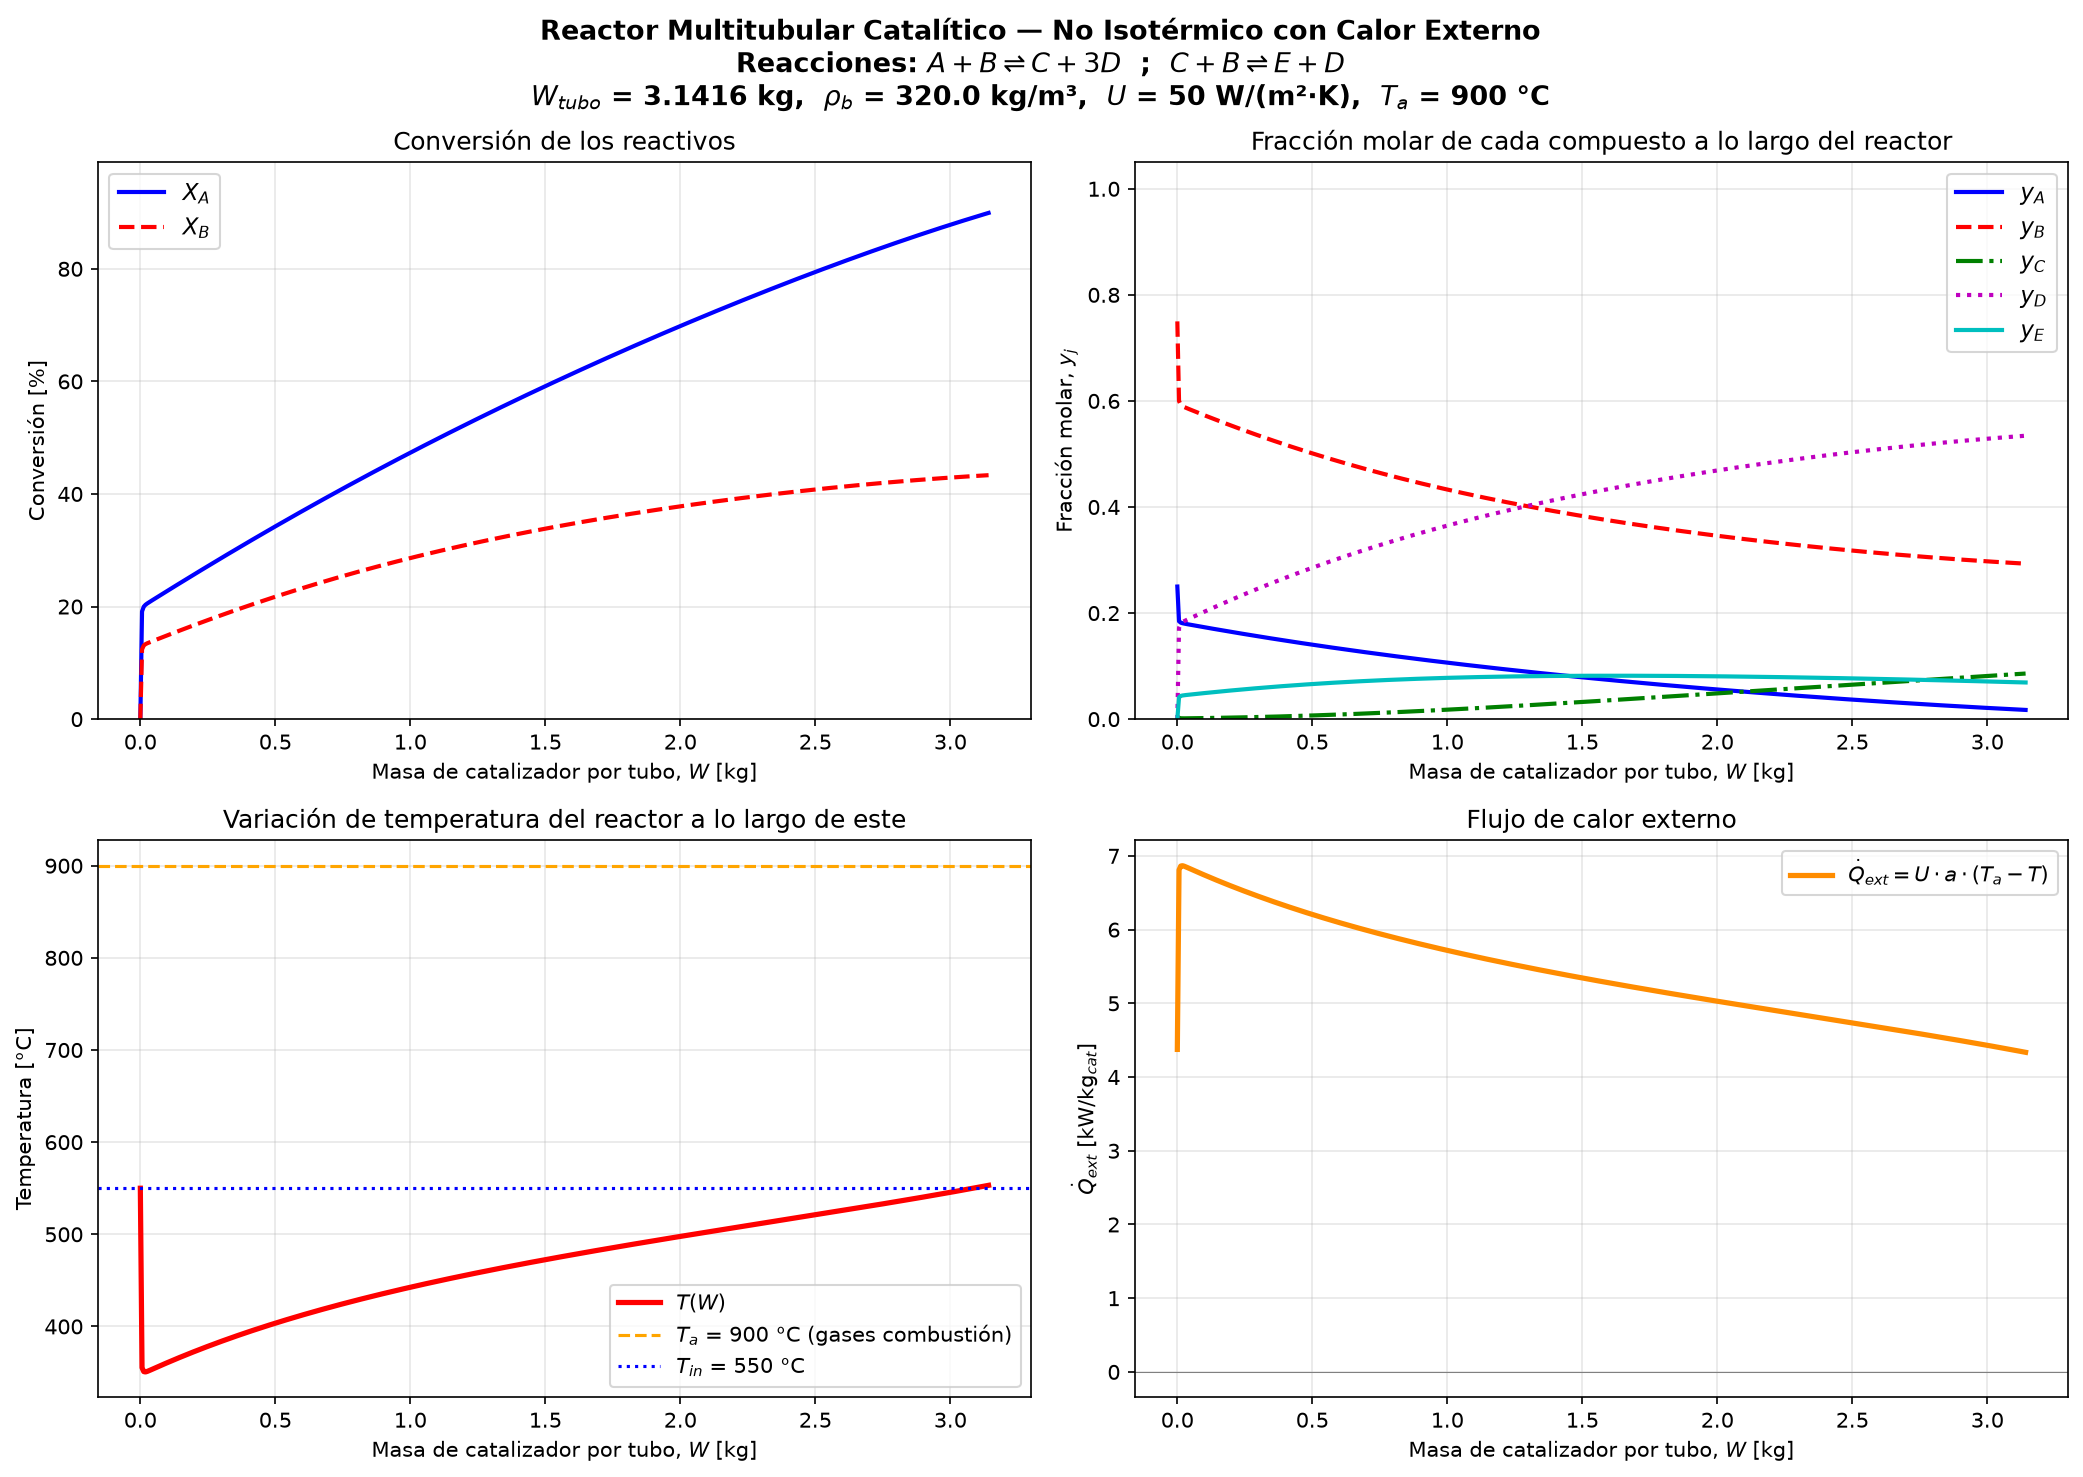
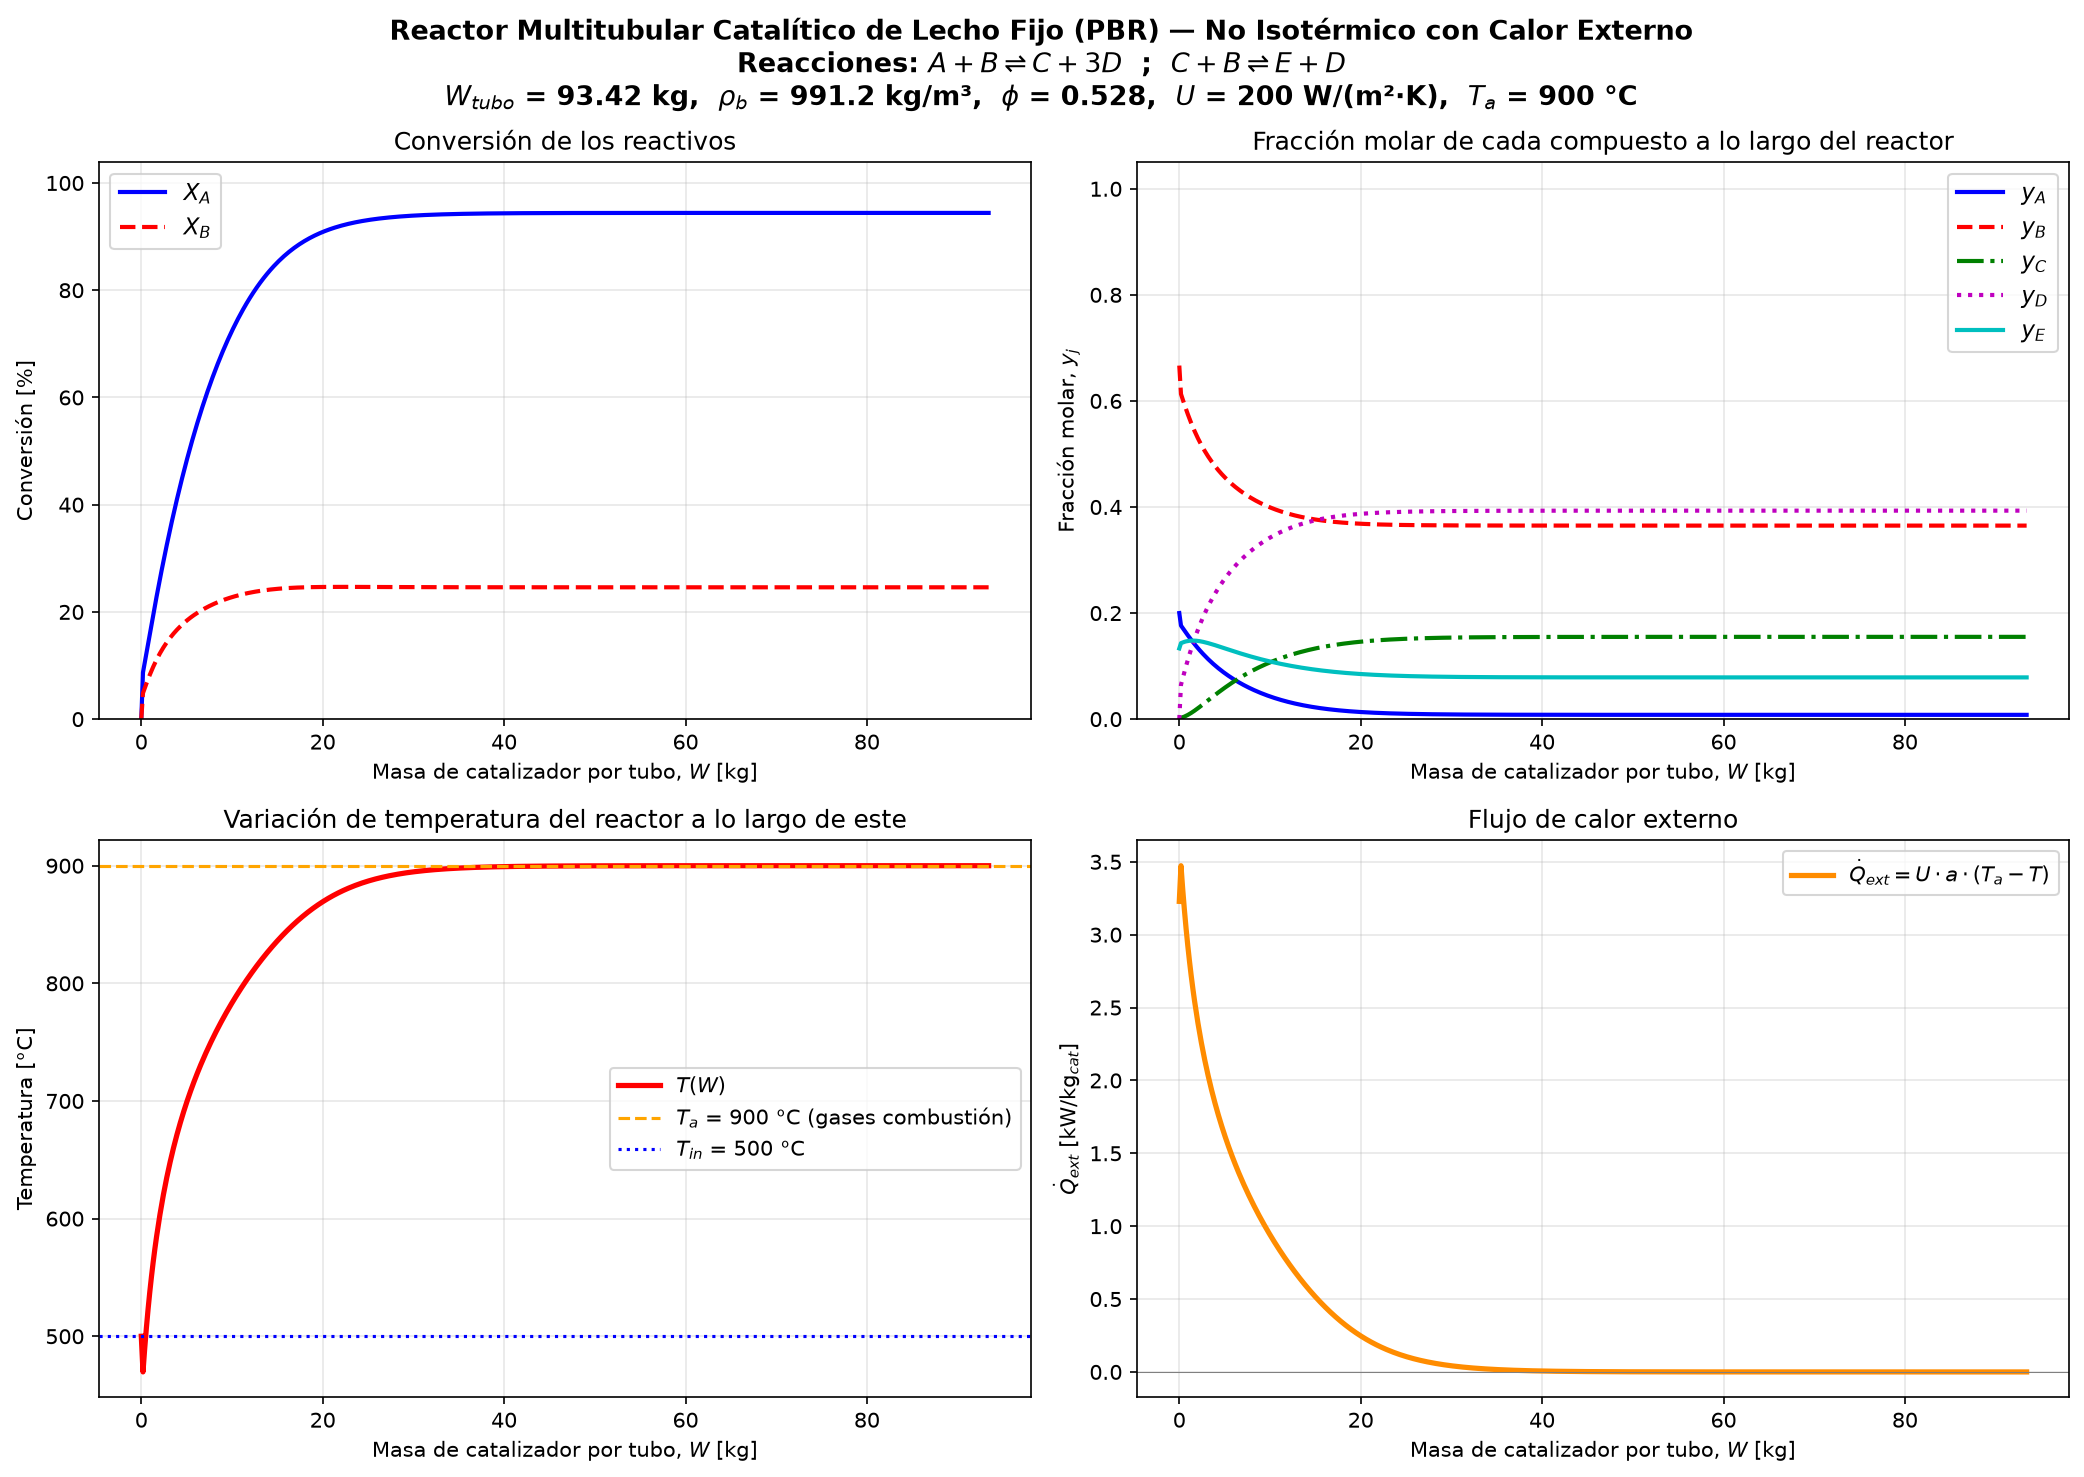
con lecho fijo

diff --git a/SEGUNDA LIADA/reactor_multitubular_no_isotermico.py b/SEGUNDA LIADA/reactor_multitubular_no_isotermico.py
@@ -1,7 +1,8 @@
 """
 REACTOR MULTITUBULAR CATALÍTICO — Fase Gaseosa NO ISOTÉRMICA con Calor Externo
 ================================================================================
-Catalizador depositado en la pared interna de cada tubo (wall-coated).
+Configuración: Reactor de Lecho Fijo Multitubular (Packed Bed Reactor, PBR).
+Partículas catalíticas empaquetadas en el interior de cada tubo.
 
 Estequiometría del sistema reactivo:
   Reacción 1:  A + B ⇌ C + 3D    (r₁' = k₁'·[C_A·C_B − C_C·C_D³ / K_eq,1])
@@ -18,10 +19,12 @@ Sistema de EDOs acoplado:
     dF_E/dW =  r₂'
 
     dT/dW   = [Q̇_transf + Σ(−ΔH_rxn,r · r_r')] / [Σ Fⱼ · Cp,j(T)]
-              donde Q̇_transf = U · a · (T_a − T)
+              donde Q̇_transf = U · a · (T_a − T) = Ua_esp · (T_a − T)
 
 Transferencia de calor externa:  Q̇ = U · a · (Tₐ − T)
-    donde a = área de transferencia por unidad de masa de catalizador [m²/kg]
+    donde a = área de transferencia por unidad de masa de catalizador [m²/kg_cat]
+    a = A_lat / W_tubo = 4.0 / (rho_b · d_t)
+    Ua_esp = U · a  [W/(kg_cat·K)]
 
 Estequiometría:  Cⱼ = (Fⱼ / F_T) · (P / R·T)
 
@@ -31,7 +34,7 @@ Hipótesis:
     - Las constantes de equilibrio siguen van 't Hoff:
         K_eq(T) = K_eq(T_ref) · exp[−ΔH_rxn/R · (1/T − 1/T_ref)]
 
-Referencias: Fogler (2020), Xu & Froment (1989), Martín (2016).
+Referencias: Fogler (2020), Xu & Froment (1989), Akers & Camp (1955), Martín (2016, 2022).
 
 ══════════════════════════════════════════════════════════════════════
   LEYENDA DE VARIABLES
@@ -97,18 +100,18 @@ FC0_total = 0.0 / 3.6       # [mol/s]  caudal molar de C (ej. CO)
 FD0_total = 0.0 / 3.6       # [mol/s]  caudal molar de D (ej. H2)
 FE0_total = 40.0 / 3.6      # [mol/s]  caudal molar de E (ej. CO2)
 
-# --- Dimensiones del reactor ---
-d_t = 0.10            # Diámetro interno de cada tubo [m]
-L   = 12.0            # Longitud de cada tubo [m]
-N_t = 400             # Número de tubos
+# --- Dimensiones del reactor y propiedades del lecho fijo (INPUTS) ---
+d_t = 0.10          # Diámetro interno del tubo [m] (10.00 cm)
+L   = 12.00         # Longitud del tubo [m]
+N_t = 200           # Número de tubos [-]
 
-# --- Propiedades del catalizador ---
-delta   = 0.000065    # Espesor de la capa catalítica en la pared [m]
-rho_cat = 2100.0      # Densidad del catalizador [kg/m³]
+rho_cat = 2100.0    # Densidad de la partícula catalítica [kg_cat/m³_sólido] (Akers & Camp, 1955)
+phi     = 0.528     # Porosidad o fracción de hueco del lecho [-] (Xu & Froment, 1989)
+                    # Nota: usar phi = 0.40 si se asume empaquetamiento estándar (Fogler, 2020)
 
 # --- Transferencia de calor externa ---
-U   = 200             # Coeficiente global de transf. de calor [W/(m²·K)]
-T_a = 1100 + 273.15    # Temperatura de los gases de combustión [K] (~900 °C)
+U   = 200.0         # Coeficiente global de transferencia de calor [W/(m²·K)]
+T_a = 1173.15       # Temperatura de los gases de combustión [K]
 
 # ══════════════════════════════════════════════════════════════════════
 # 2. CAPACIDADES CALORÍFICAS  Cp(T) = a + b·T + c·T²   [J/(mol·K)]
@@ -164,25 +167,33 @@ Delta_Cp_coefs_rxn2 = (  1 * Cp_coefs['E']
 
 
 # ══════════════════════════════════════════════════════════════════════
-# 3. CÁLCULOS GEOMÉTRICOS Y DE CATALIZADOR
+# 2. SECUENCIA ORDENADA DE CÁLCULO (GEOMETRÍA, CATALIZADOR Y ÁREA 'a')
 # ══════════════════════════════════════════════════════════════════════
 
-# Volumen por tubo y total
-V_tubo  = (np.pi * d_t**2 * L) / 4.0      # [m³]
-V_total = N_t * V_tubo                      # [m³]
+# Paso 1: Área transversal de paso por tubo [m²] (Martín, 2016)
+A_c = (np.pi * d_t**2) / 4.0
 
-# Masa de catalizador
-W_total = N_t * np.pi * d_t * L * delta * rho_cat   # [kg]
-W_tubo  = np.pi * d_t * L * delta * rho_cat          # [kg] por tubo
+# Paso 2: Volumen por tubo y volumen total del reactor [m³] (Fogler, 2020)
+V_tubo = A_c * L
+V_total = N_t * V_tubo
 
-# Densidad aparente del lecho
-rho_b = 4.0 * rho_cat * delta / d_t   # [kg/m³]
+# Paso 3: Área lateral de intercambio térmico por tubo [m²] (Martín, 2022)
+A_lat = np.pi * d_t * L
+A_lat_tubo = A_lat
 
-# Área lateral interna por tubo (superficie de transferencia de calor)
-A_lat_tubo = np.pi * d_t * L   # [m²]
+# Paso 4: Densidad aparente del lecho fijo [kg_cat/m³_reactor] (Fogler, 2020)
+rho_b = rho_cat * (1.0 - phi)
 
-# Área de transferencia por unidad de masa de catalizador [m²/kg_cat]
-a_especifica = A_lat_tubo / W_tubo  # [m²/kg_cat]
+# Paso 5: Masa de catalizador por tubo y total [kg_cat] (Fogler, 2020; Martín, 2016)
+W_tubo = rho_b * V_tubo
+W_total = N_t * W_tubo
+
+# Paso 6: Área específica de transferencia de calor por masa catalítica [m²/kg_cat] (Martín, 2022)
+a = A_lat / W_tubo          # Equivalente exacto a: a = 4.0 / (rho_b * d_t)
+a_especifica = a
+
+# Término agrupado de transferencia de calor por unidad de masa [W/(kg_cat·K)] (Martín, 2022)
+Ua_esp = U * a              # Equivale a (4 * U) / (rho_b * d_t) = 8.0710 W/(kg_cat·K)
 
 # Caudales de entrada POR TUBO
 FA0 = FA0_total / N_t
@@ -196,7 +207,7 @@ CT0 = P0 / (R_g * T0)    # [mol/m³]
 
 print("=" * 70)
 print("    REACTOR MULTITUBULAR CATALÍTICO — NO ISOTÉRMICO")
-print("    Reacciones: A + B <-> C + 3D ; C + B <-> E + D")
+print("    Lecho Fijo (PBR) — Reacciones: A + B <-> C + 3D ; C + B <-> E + D")
 print("    Balance de Energía con Calentamiento Externo")
 print("=" * 70)
 print(f"  Temperatura de entrada     T_in  = {T0:.2f} K  ({T0-273.15:.1f} °C)")
@@ -213,17 +224,19 @@ print("-" * 70)
 print(f"  Diametro del tubo        d_t     = {d_t*100:.2f} cm")
 print(f"  Longitud del tubo          L     = {L:.2f} m")
 print(f"  Número de tubos          N_t     = {N_t}")
-print(f"  Volumen por tubo       V_tubo    = {V_tubo*1e6:.2f} cm³  ({V_tubo:.6f} m³)")
-print(f"  Volumen total          V_total   = {V_total*1e3:.4f} dm³  ({V_total:.6f} m³)")
+print(f"  Area transversal paso    A_c     = {A_c*1e4:.2f} cm2  ({A_c:.6f} m2)")
+print(f"  Volumen por tubo       V_tubo    = {V_tubo*1e3:.4f} dm3  ({V_tubo:.6f} m3)")
+print(f"  Volumen total          V_total   = {V_total*1e3:.4f} dm3  ({V_total:.6f} m3)")
 print("-" * 70)
-print(f"  Espesor capa catalitica  delta   = {delta*1000:.2f} mm")
-print(f"  Densidad catalizador   rho_cat   = {rho_cat:.0f} kg/m³")
-print(f"  Densidad aparente        rho_b   = {rho_b:.2f} kg/m³")
-print(f"  Masa cat. por tubo     W_tubo    = {W_tubo:.4f} kg")
-print(f"  Masa cat. total        W_total   = {W_total:.4f} kg")
+print(f"  Densidad cat. solido   rho_cat   = {rho_cat:.0f} kg_cat/m3_solido")
+print(f"  Porosidad del lecho      phi     = {phi:.3f} (fraccion de hueco)")
+print(f"  Densidad aparente lecho  rho_b   = {rho_b:.2f} kg_cat/m3_reactor")
+print(f"  Masa cat. por tubo     W_tubo    = {W_tubo:.4f} kg_cat")
+print(f"  Masa cat. total        W_total   = {W_total:.4f} kg_cat")
 print("-" * 70)
-print(f"  Area lateral por tubo  A_lat     = {A_lat_tubo:.4f} m2")
-print(f"  Area especifica          a       = {a_especifica:.4f} m2/kg_cat")
+print(f"  Area lateral por tubo  A_lat     = {A_lat:.4f} m2")
+print(f"  Area especifica          a       = {a:.4f} m2/kg_cat")
+print(f"  Termino agrupado U*a   Ua_esp    = {Ua_esp:.4f} W/(kg_cat*K)")
 print("-" * 70)
 print(f"  U (coef. global)                 = {U:.1f} W/(m2*K)")
 print(f"  T_a (gases combustion)           = {T_a:.2f} K  ({T_a-273.15:.1f} C)")
@@ -314,7 +327,7 @@ def sistema_EDO(W, y):
 
     # ─── Balance de energía: dT/dW ───
     # Calor transferido desde el exterior [W/kg_cat = J/(s·kg_cat)]
-    Q_dot = U * a_especifica * (T_a - T)
+    Q_dot = Ua_esp * (T_a - T)
 
     # Entalpías de reacción corregidas con T (ley de Kirchhoff)
     DH_rxn1 = DH_rxn_T(DH_rxn1_ref, T, T_ref, Delta_Cp_coefs_rxn1)
@@ -407,7 +420,7 @@ xi_1_total = xi_1_tubo * N_t    # [mol/s]  avance total rxn 1
 xi_2_total = xi_2_tubo * N_t    # [mol/s]  avance total rxn 2
 
 # Potencia térmica transferida al tubo (integrada numéricamente)
-Q_perfil = U * a_especifica * (T_a - T_arr)   # [W/kg_cat] perfil
+Q_perfil = Ua_esp * (T_a - T_arr)   # [W/kg_cat] perfil
 Q_ext_tubo = np.trapezoid(Q_perfil, W_arr)         # [W] por tubo
 Q_ext_total = Q_ext_tubo * N_t                  # [W] total reactor
 
@@ -460,9 +473,9 @@ print("=" * 70)
 
 fig, axes = plt.subplots(2, 2, figsize=(14, 10))
 fig.suptitle(
-    'Reactor Multitubular Catalítico — No Isotérmico con Calor Externo\n'
+    'Reactor Multitubular Catalítico de Lecho Fijo (PBR) — No Isotérmico con Calor Externo\n'
     r'Reacciones: $A + B \rightleftharpoons C + 3D$  ;  $C + B \rightleftharpoons E + D$' + '\n'
-    rf'$W_{{tubo}}$ = {W_tubo:.4f} kg,  $\rho_b$ = {rho_b:.1f} kg/m³,  '
+    rf'$W_{{tubo}}$ = {W_tubo:.2f} kg,  $\rho_b$ = {rho_b:.1f} kg/m³,  $\phi$ = {phi:.3f},  '
     rf'$U$ = {U:.0f} W/(m²·K),  $T_a$ = {T_a-273.15:.0f} °C',
     fontsize=13, fontweight='bold'
 )
